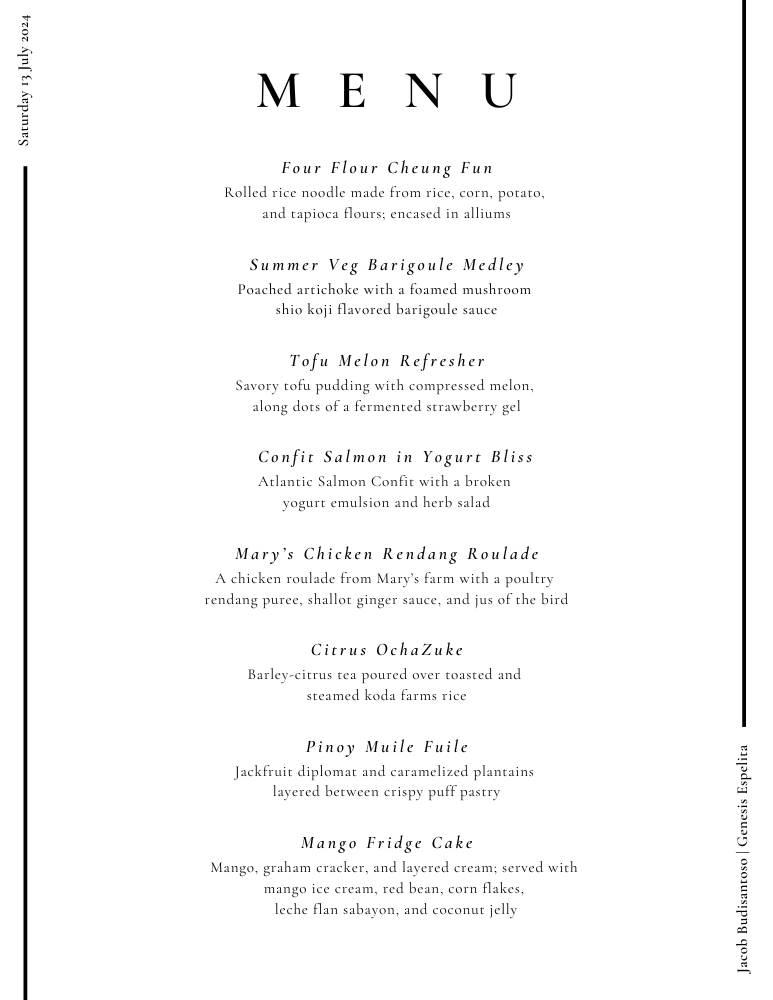
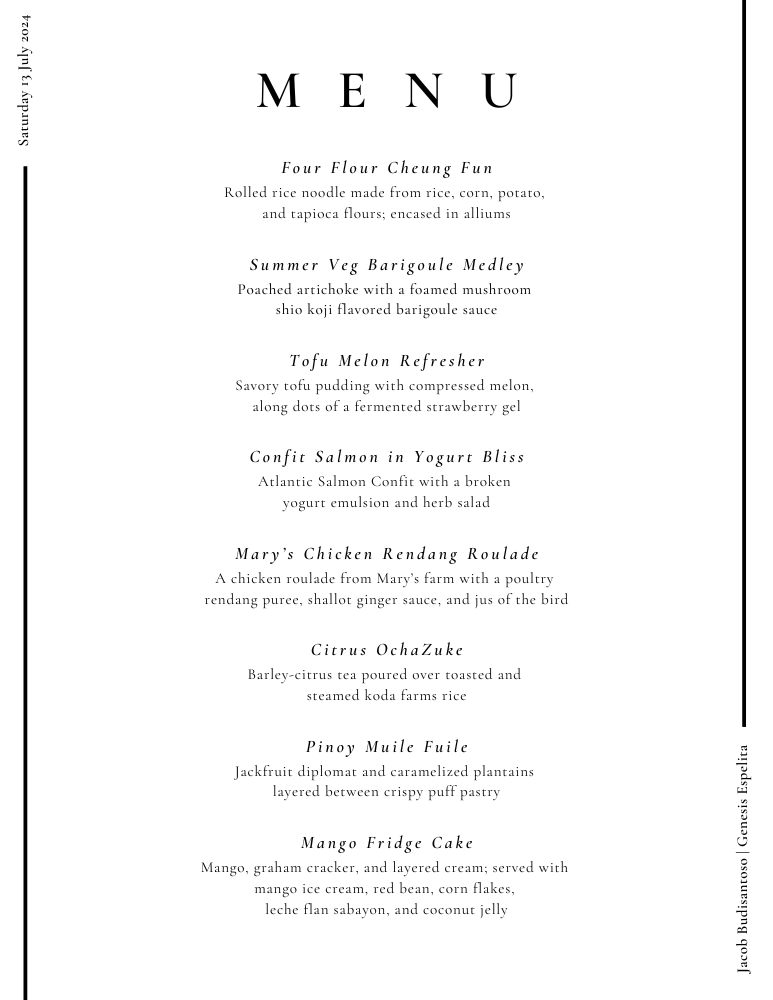
Added Veg menu
needed a vegetarian menu:
-added new veg directory with index.html
- added veg menu image
-swapped old menu image because elements were off center

Changed region(s): [[0.2794, 0.868, 0.6831, 0.93], [0.3105, 0.434, 0.6831, 0.465]]

diff --git a/pop-up-dinner/veg/index.html b/pop-up-dinner/veg/index.html
@@ -1,0 +1,44 @@
+<!DOCTYPE html>
+<html lang="en">
+<head>
+    <meta charset="UTF-8">
+    <meta name="viewport" content="width=device-width, initial-scale=1.0">
+    <title>Fine Dining Menu</title>
+    <!-- Google Fonts -->
+    <link href="https://fonts.googleapis.com/css2?family=Dancing+Script&family=Georgia:wght@400;700&family=Arial:wght@400;700&display=swap" rel="stylesheet">
+    <!-- Bootstrap CSS -->
+    <link rel="stylesheet" href="../vendor/bootstrap/css/bootstrap.min.css">
+    <!-- Custom CSS -->
+    <link rel="stylesheet" href="../css/menu.css">
+</head>
+<body>
+    <!-- Commenting out the menu container -->
+    <!-- <div class="menu-container">
+        <h1 class="main-header">Pop-Up Dining Experience</h1>
+        <div class="decorative-line"></div>
+        <h2>First Course</h2>
+        <p>Cheung Fun Roll Alliums Soy</p>
+        <h2>Second Course</h2>
+        <p>Summer Veggie Barigoule Medley</p>
+        <h2>Third Course</h2>
+        <p>Melon, Tofu, Strawberry Tea</p>
+        <h2>Fourth Course</h2>
+        <p>Atlantic Salmon, Yogurt, Salad</p>
+        <h2>Fifth Course</h2>
+        <p>Chicken Roulade, Rendang, Ginger Sauce, Jus</p>
+        <h2>Sixth Course</h2>
+        <p>Ochazuke</p>
+        <h2>Seventh Course</h2>
+        <p>Muille fuile, jackfruit diplomat, plantains</p>
+        <h2>Eighth Course</h2>
+        <p>Mago fridge cake, halo halo</p>
+        <div class="decorative-line"></div>
+        <p class="footer-text">Saturday, July 13th, 2024</p>
+        <p class="footer-text">Sunday, July 14th, 2024</p>
+    </div> -->
+    <div class="image-container">
+        <img src="../img/menu-veg.png" alt="Fine Dining Menu" class="menu-image">
+    </div>
+    <script src="../vendor/bootstrap/js/bootstrap.bundle.min.js"></script>
+</body>
+</html>
